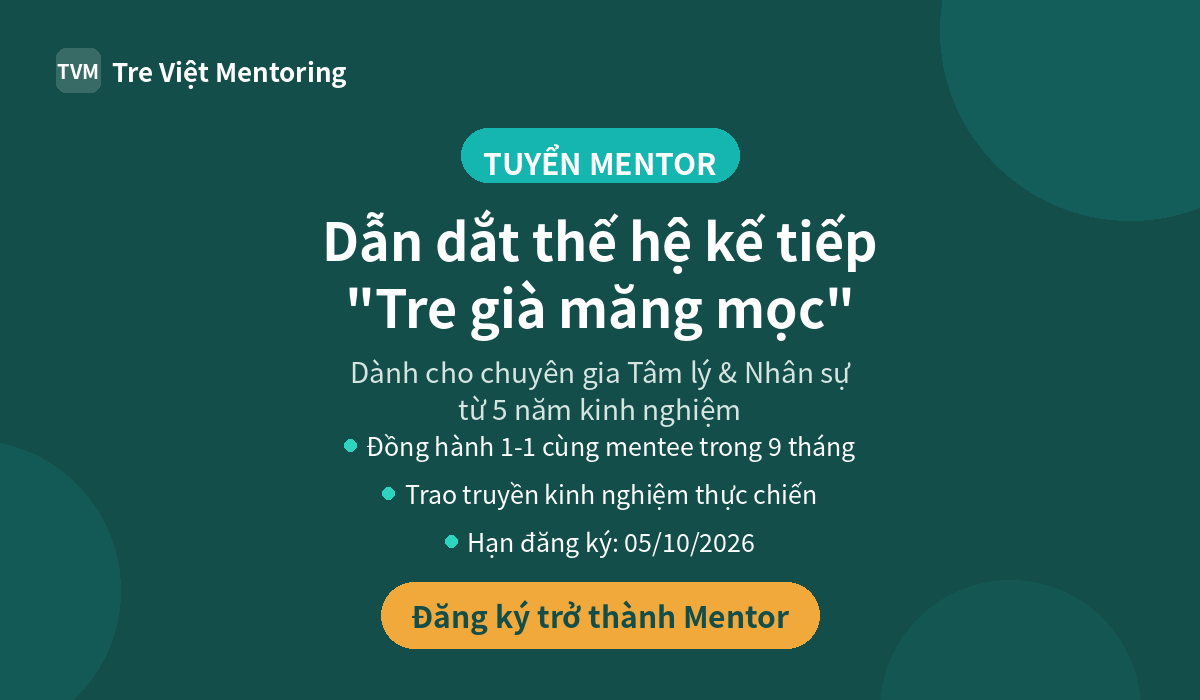
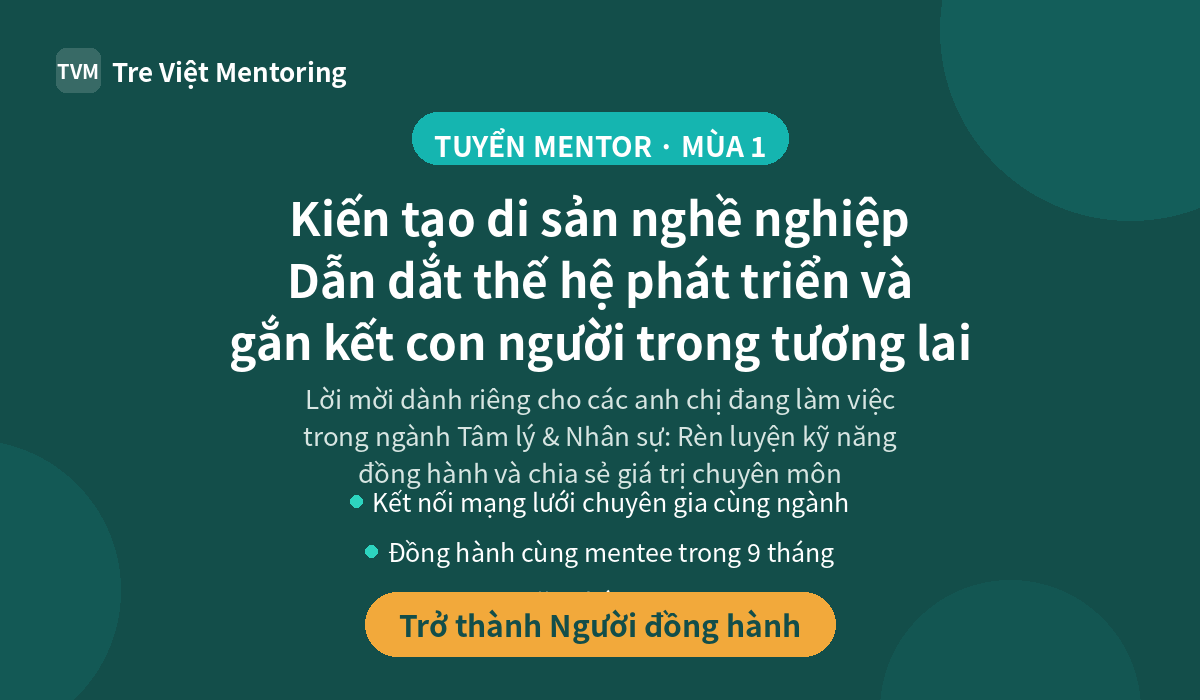
feat: chỉnh poster tuyển mentor - tiêu đề Kiến tạo di sản nghề nghiệp, CTA Trở thành Người đồng hành

Changed region(s): [[0.185, 0.15, 0.8325, 0.96]]

diff --git a/scripts/make_recruit_images.py b/scripts/make_recruit_images.py
@@ -105,36 +105,38 @@ def make_mentor():
     h = H_MENTOR
     img, d = base(h)
     logo(d)
-    y = 128
-    y = pill(d, "TUYỂN MENTOR", W//2, y, bg=TEAL, fg=WHITE, sz=30)
+    y = 112
+    y = pill(d, "TUYỂN MENTOR · MÙA 1", W//2, y, bg=TEAL, fg=WHITE, sz=28)
+    # tiêu đề chính
     d.multiline_text(
-        (W//2, y), "Dẫn dắt thế hệ kế tiếp\n\"Tre già măng mọc\"",
-        font=font(52, True), fill=WHITE, anchor="ma", align="center", spacing=6)
-    y += 150
-    d.multiline_text(
-        (W//2, y), "Dành cho chuyên gia Tâm lý & Nhân sự\ntừ 5 năm kinh nghiệm",
-        font=font(28, False), fill=MUTED, anchor="ma", align="center", spacing=4)
-    y += 108
-    items = ["Đồng hành 1-1 cùng mentee trong 9 tháng",
-             "Trao truyền kinh nghiệm thực chiến",
+        (W//2, y), "Kiến tạo di sản nghề nghiệp\nDẫn dắt thế hệ phát triển và\ngắn kết con người trong tương lai",
+        font=font(46, True), fill=WHITE, anchor="ma", align="center", spacing=8)
+    y += 196
+    # dòng phụ (truyền cảm hứng)
+    sub = "Lời mời dành riêng cho các anh chị đang làm việc\ntrong ngành Tâm lý & Nhân sự: Rèn luyện kỹ năng\nđồng hành và chia sẻ giá trị chuyên môn"
+    d.multiline_text((W//2, y), sub, font=font(26, False), fill=MUTED,
+                     anchor="ma", align="center", spacing=6)
+    y += 138
+    # điểm chính (canh giữa cụm bullet + text)
+    items = ["Kết nối mạng lưới chuyên gia cùng ngành",
+             "Đồng hành cùng mentee trong 9 tháng",
              "Hạn đăng ký: 05/10/2026"]
     f_it = font(25, False)
     for it in items:
         tw = d.textlength(it, font=f_it)
-        # canh giữa cụm bullet + text
         total = 22 + tw
         start_x = (W - total) / 2
         cy = y
-        d.ellipse([start_x, cy-19, start_x+12, cy-7], fill=TEAL_BRIGHT)
-        d.text((start_x+22, cy-13), it, font=f_it, fill=WHITE, anchor="lm")
-        y += 48
-    y += 6
-    btn = "Đăng ký trở thành Mentor"
+        d.ellipse([start_x, cy-21, start_x+12, cy-9], fill=TEAL_BRIGHT)
+        d.text((start_x+22, cy-15), it, font=f_it, fill=WHITE, anchor="lm")
+        y += 50
+    # nút CTA
+    btn = "Trở thành Người đồng hành"
     fb = font(30, True)
     bw = d.textlength(btn, font=fb)
-    box = [W//2 - bw/2 - 30, h-118, W//2 + bw/2 + 30, h-52]
-    rounded(d, box, 33, fill=GOLD)
-    d.text((W//2, h-85), btn, font=fb, fill=GREEN_DARK, anchor="mm")
+    box = [W//2 - bw/2 - 34, h-108, W//2 + bw/2 + 34, h-44]
+    rounded(d, box, 32, fill=GOLD)
+    d.text((W//2, h-76), btn, font=fb, fill=GREEN_DARK, anchor="mm")
     return img
 
 out_dir = os.path.join(os.path.dirname(__file__), "assets")
